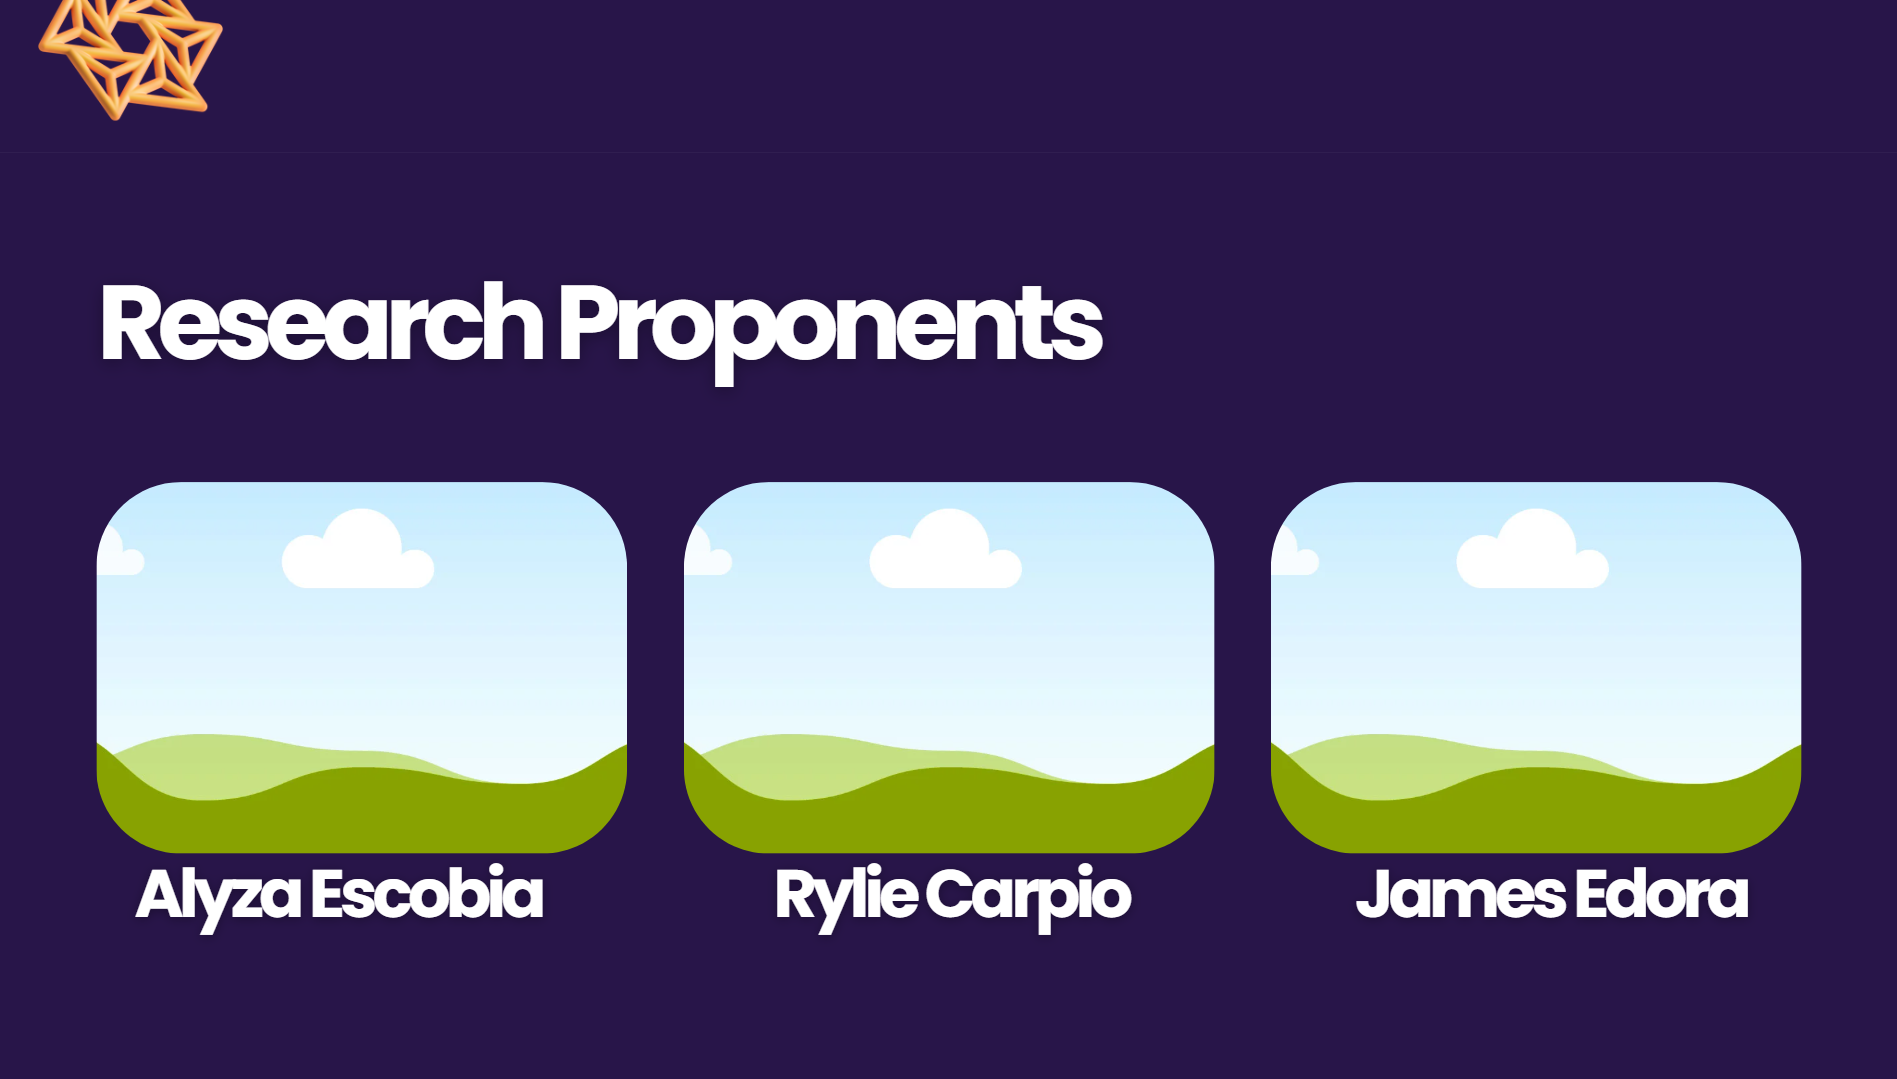
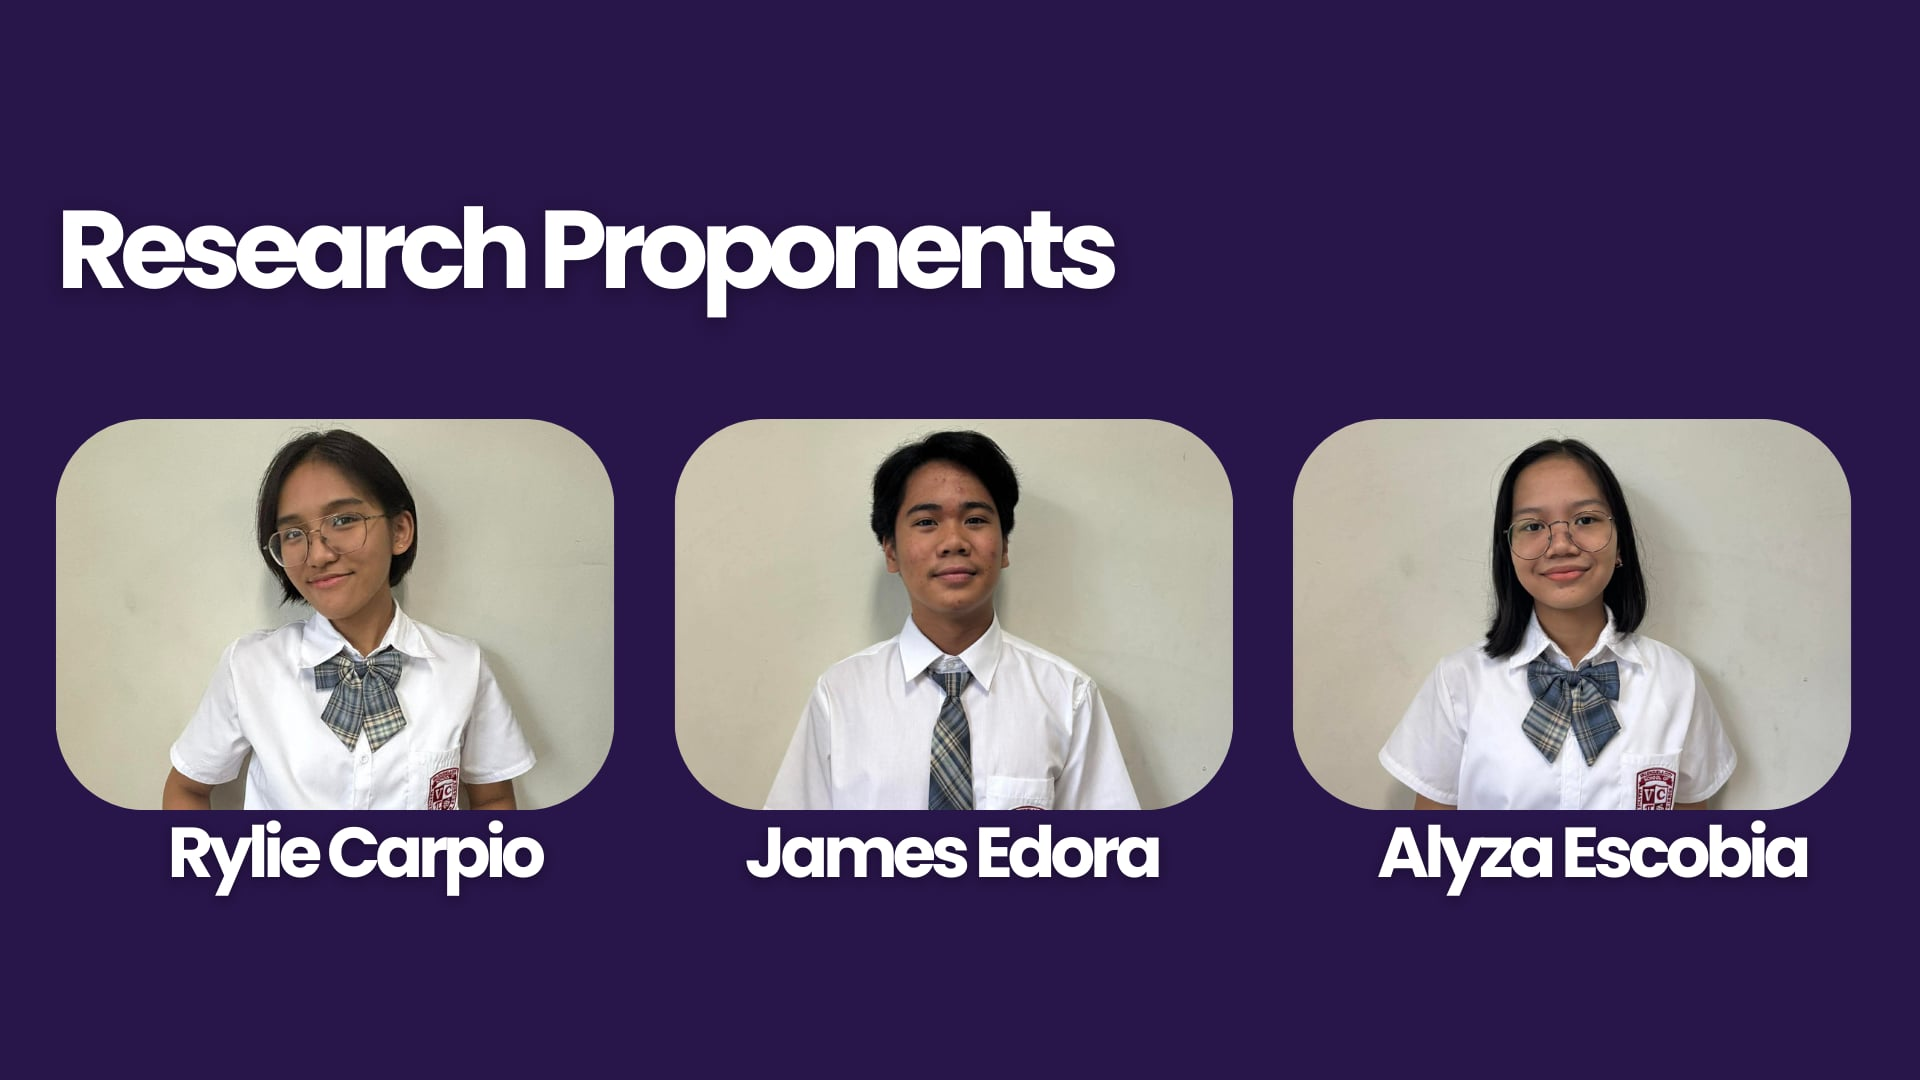
Update P1S3 photo and remove P1S4

diff --git a/app.py b/app.py
@@ -499,9 +499,6 @@ if page == "home":
 
     st.markdown(f'<div class="canva-sec"><img src="{data_uri("P1S3.png")}" /></div>', unsafe_allow_html=True)
 
-    st.markdown(f'<div class="canva-sec"><img src="{data_uri("P1S4.png")}" /></div>', unsafe_allow_html=True)
-
-
 elif page == "about":
     st.markdown(f'<div class="about-wrap"><img src="{data_uri("P2S1.png")}" /></div>', unsafe_allow_html=True)
 
